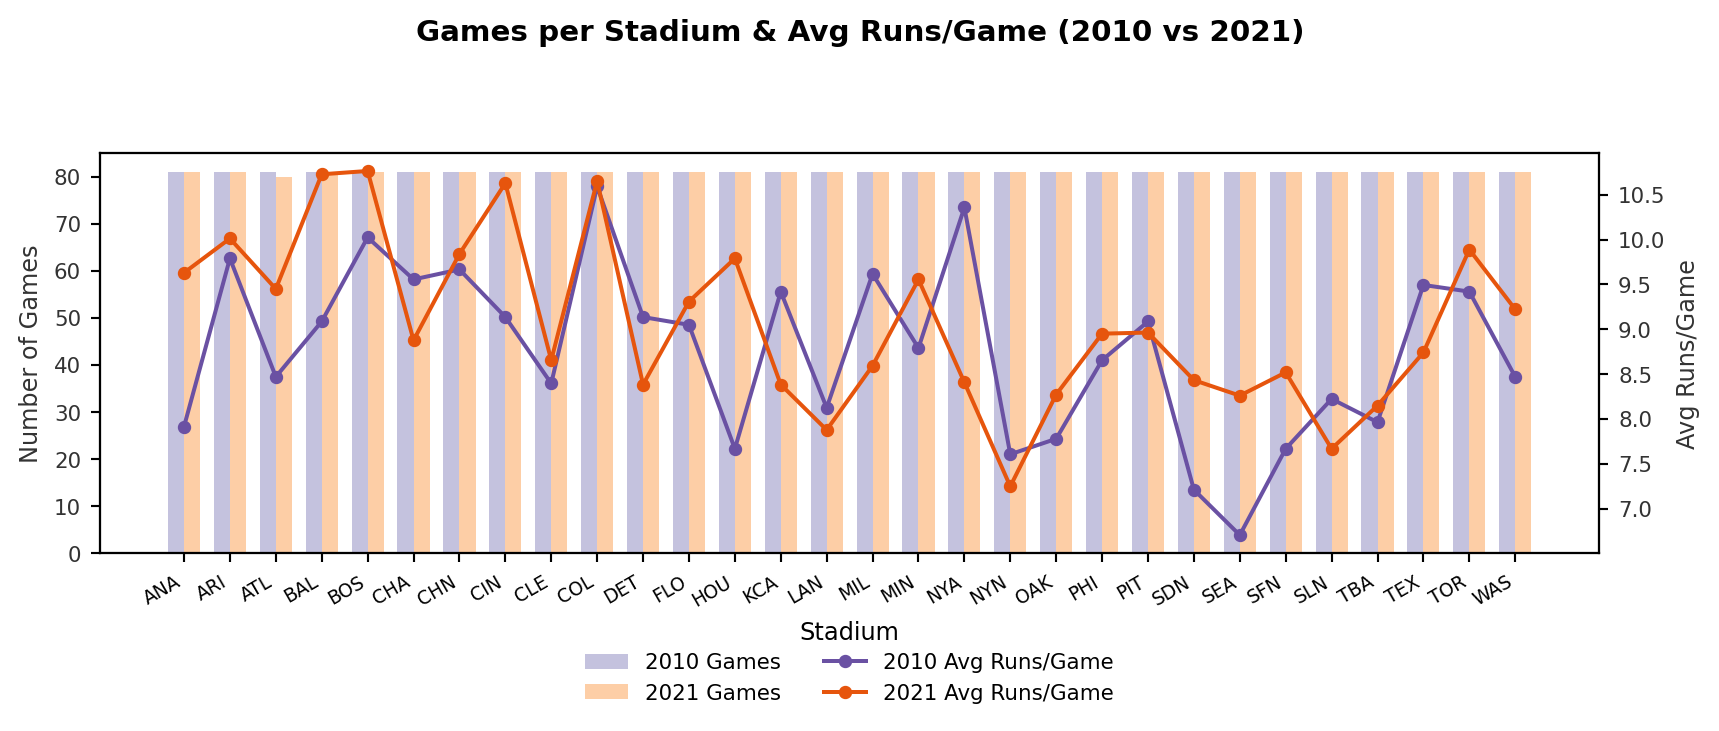
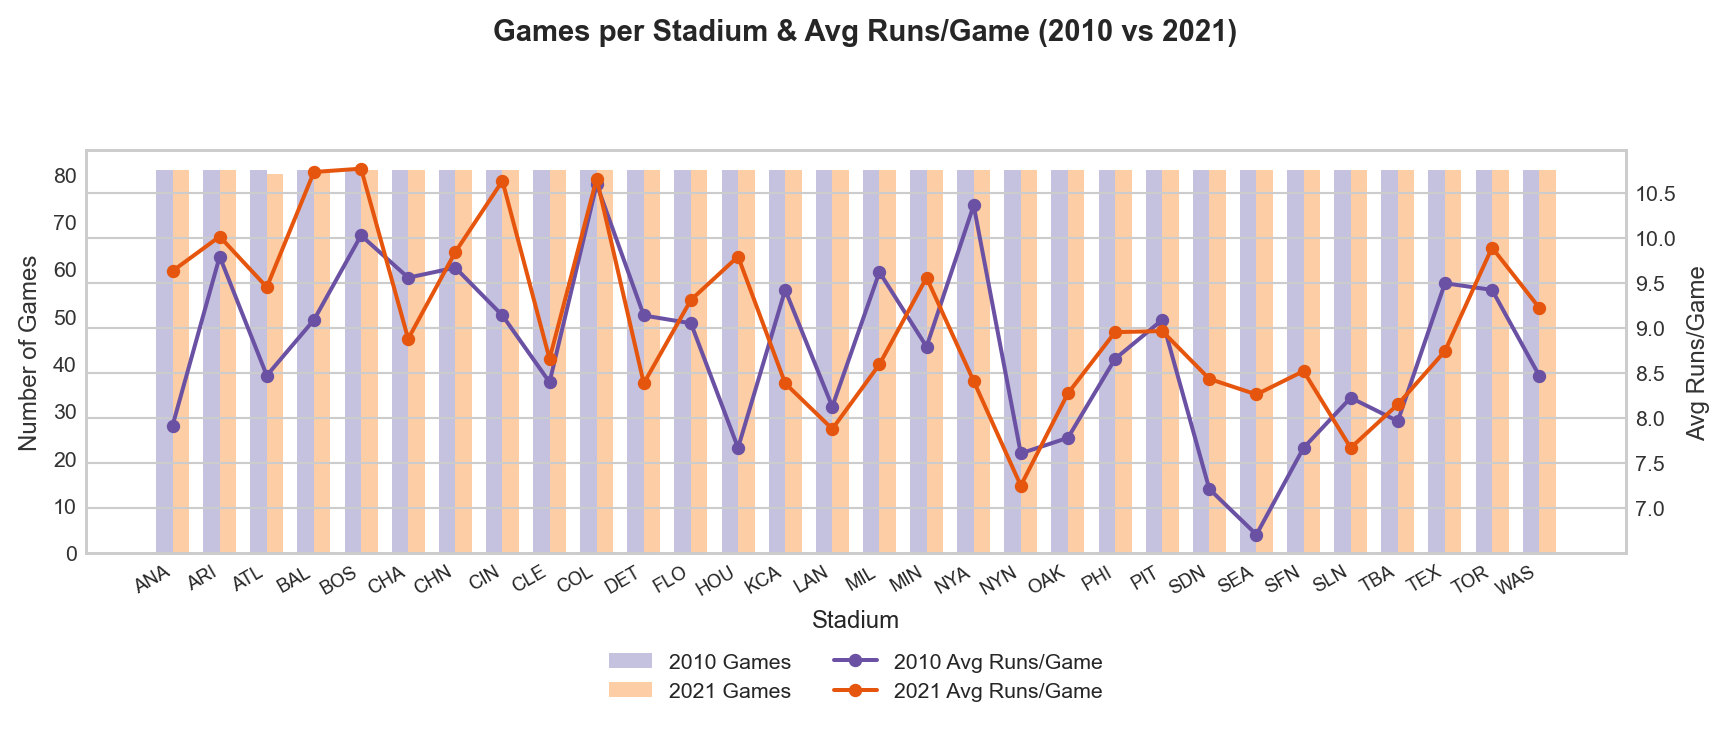
save

Changed region(s): [[0.0, 0.1811, 0.9866, 0.9657], [0.2467, 0.0302, 0.7708, 0.0604], [0.3392, 0.8752, 0.4625, 0.9657]]

diff --git a/index.html b/index.html
@@ -294,7 +294,7 @@ First few rows of 2010 data:
 <p><strong>Question 1: Data Aggregation Strategy</strong> - How many games are in the dataset? Why do we aggregate individual games into stadium averages before we start the visualization process?</p>
 <p>Answer: There are 162 games in the dataset. We aggregate individual games into stadium averages before we start the visualization process because it allows us to compare the average runs per game for each stadium across the two years. This is a more meaningful comparison than comparing the total runs scored by each stadium in each year, as it allows us to see the average runs per game for each stadium.</p>
 <p><strong>Visualization: Please see the visualization below.</strong></p>
-<div id="d163020c" class="cell" data-execution_count="3">
+<div id="b3864977" class="cell" data-execution_count="3">
 <div class="code-copy-outer-scaffold"><div class="sourceCode cell-code" id="cb5"><pre class="sourceCode python code-with-copy"><code class="sourceCode python"><span id="cb5-1"><a href="#cb5-1" aria-hidden="true" tabindex="-1"></a><span class="im">import</span> matplotlib.pyplot <span class="im">as</span> plt</span>
 <span id="cb5-2"><a href="#cb5-2" aria-hidden="true" tabindex="-1"></a></span>
 <span id="cb5-3"><a href="#cb5-3" aria-hidden="true" tabindex="-1"></a><span class="co"># Count games per stadium for both years</span></span>
@@ -355,7 +355,7 @@ First few rows of 2010 data:
 <div class="cell-output cell-output-display">
 <div>
 <figure class="figure">
-<p><img src="index_files/figure-html/cell-4-output-1.png" width="860" height="366" class="figure-img"></p>
+<p><img src="index_files/figure-html/cell-4-output-1.png" width="865" height="365" class="figure-img"></p>
 </figure>
 </div>
 </div>
@@ -409,7 +409,7 @@ First few rows of 2010 data:
 <div class="cell-output cell-output-display">
 <div>
 <figure class="figure">
-<p><img src="index_files/figure-html/stage-3-mapping-exploration-output-1.png" id="stage-3-mapping-exploration" width="758" height="567" class="figure-img"></p>
+<p><img src="index_files/figure-html/stage-3-mapping-exploration-output-1.png" id="stage-3-mapping-exploration" width="758" height="566" class="figure-img"></p>
 </figure>
 </div>
 </div>
@@ -467,7 +467,7 @@ First few rows of 2010 data:
 <h2 class="anchored" data-anchor-id="stage-4-formatting-for-your-audience">Stage 4: Formatting for Your Audience</h2>
 <p><strong>Mental Model:</strong> Polish your visualization for professional presentation.</p>
 <p>Let’s create a publication-ready visualization:</p>
-<div id="037c3acb" class="cell" data-execution_count="5">
+<div id="7b00920a" class="cell" data-execution_count="5">
 <div class="code-copy-outer-scaffold"><div class="sourceCode cell-code" id="cb7"><pre class="sourceCode python code-with-copy"><code class="sourceCode python"><span id="cb7-1"><a href="#cb7-1" aria-hidden="true" tabindex="-1"></a><span class="co"># Stage 4: Formatting for Your Audience</span></span>
 <span id="cb7-2"><a href="#cb7-2" aria-hidden="true" tabindex="-1"></a><span class="co"># Create a professional, publication-ready visualization</span></span>
 <span id="cb7-3"><a href="#cb7-3" aria-hidden="true" tabindex="-1"></a></span>
